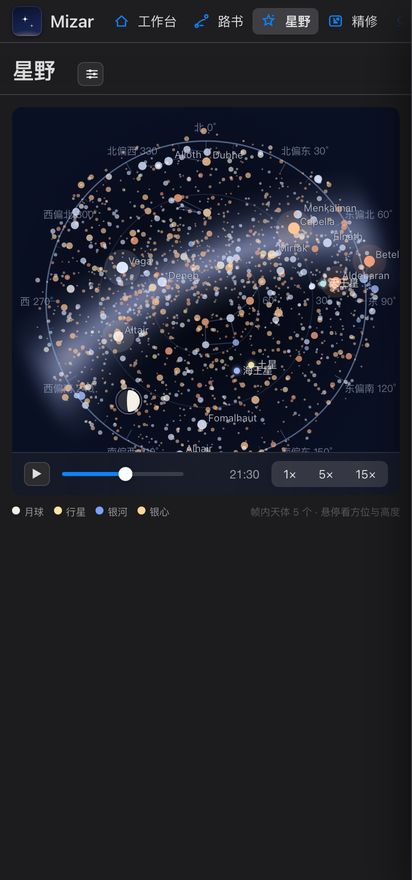
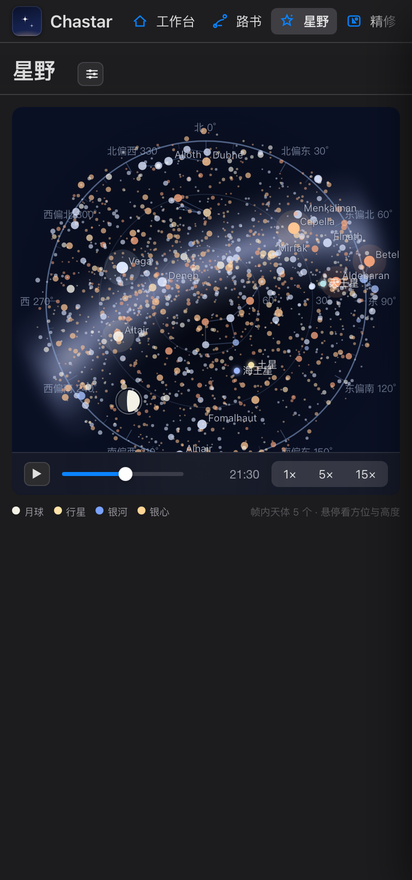
改名 Chastar：品牌面全量替换，图文件名跟着改
Chastar 是自造词，不指向任何恒星专名——文档里也这么写，避免被当成星名去查。
改的范围是所有用户可见文案与导出物：标签页标题、侧栏、说明弹窗、图片导出后缀
（-Chastar.jpg）、配方文件（.chastar.json）、路书文件名与 Markdown 头、
.cube 的注释行；图标源文件与产物一并改名（chastar.svg / chastar-512.png /
chastar-180.png），make-icon 的输入输出路径同步。

不动的：仓名与 Pages 地址（仍是 lumenfield，发布链接已写进参赛材料）、
localStorage 键 lumenfield.v1、模块内 LF 全局名、星表里的 Mizar——那是真星名数据。

Changed region(s): [[0.9903, 0.0, 1.0, 1.0], [0.1165, 0.0, 0.9612, 0.0614]]

diff --git a/src/ui/route-view.js b/src/ui/route-view.js
@@ -45,11 +45,11 @@
       actions.textContent = '';
       actions.appendChild(api.el('button', {
         class: 'control', text: '导出 Markdown',
-        onclick: function () { api.saveText('Mizar路书-' + site.id + '-' + api.state.dateISO + '.md', markdown(rows, site, kind, days), 'text/markdown;charset=utf-8'); api.toast('路书已导出为 .md'); }
+        onclick: function () { api.saveText('Chastar路书-' + site.id + '-' + api.state.dateISO + '.md', markdown(rows, site, kind, days), 'text/markdown;charset=utf-8'); api.toast('路书已导出为 .md'); }
       }));
       actions.appendChild(api.el('button', {
         class: 'control primary', text: '导出 JSON',
-        onclick: function () { api.saveText('Mizar路书-' + site.id + '.json', JSON.stringify({ site: site, from: api.state.dateISO, days: days, kind: kind, rows: rows }, null, 1), 'application/json'); api.toast('含全部计算量的 JSON 已导出'); }
+        onclick: function () { api.saveText('Chastar路书-' + site.id + '.json', JSON.stringify({ site: site, from: api.state.dateISO, days: days, kind: kind, rows: rows }, null, 1), 'application/json'); api.toast('含全部计算量的 JSON 已导出'); }
       }));
 
       /* 表格 */
@@ -130,7 +130,7 @@
 
       insp.appendChild(api.group('需要联网的量', [
         api.el('div', { class: 'tiny', text: '云量与降水：ECMWF/GFS 或晴天钟一类接口；光污染：VIIRS/世界图集栅格；极光 Kp：Space Weather Live。' }),
-        api.el('div', { class: 'tiny', text: 'Mizar 刻意不把这些塞进界面里当成"已算出"。要接的话，接进上面那张表的空列即可，评分函数留了权重位。' })
+        api.el('div', { class: 'tiny', text: 'Chastar 刻意不把这些塞进界面里当成"已算出"。要接的话，接进上面那张表的空列即可，评分函数留了权重位。' })
       ], { collapsed: true, note: '未接入' }));
     }
   });
@@ -273,7 +273,7 @@
   }
 
   function markdown(rows, site, kind, days) {
-    var head = '# Mizar 路书 · ' + site.name + '\n\n';
+    var head = '# Chastar 路书 · ' + site.name + '\n\n';
     head += '- 坐标：' + Math.abs(site.lat).toFixed(4) + '°' + (site.lat >= 0 ? 'N' : 'S') + ' ' +
       Math.abs(site.lon).toFixed(4) + '°' + (site.lon >= 0 ? 'E' : 'W') +
       '，海拔 ' + (site.height || '—') + ' m\n';
@@ -288,7 +288,7 @@
         return k === 'score' ? (v * 100).toFixed(0) : (v === 0 || v === undefined || v === null ? '—' : v);
       }).join(' | ') + ' |\n';
     });
-    head += '\n> 由 Mizar（光野）本地推算，公式与核对记录见仓库 docs/。\n';
+    head += '\n> 由 Chastar（光野）本地推算，公式与核对记录见仓库 docs/。\n';
     return head;
   }
 })(typeof window !== 'undefined' ? window : globalThis);

diff --git a/src/ui/retouch-view.js b/src/ui/retouch-view.js
@@ -326,7 +326,7 @@
         api.el('button', { class: 'control primary', style: { width: '100%' }, text: '导出当前张', onclick: function () { exportCurrent(api); } }),
         api.el('button', { class: 'control', style: { width: '100%' }, text: '逐张导出全部（' + st.images.length + '）', onclick: function () { exportAll(api); } }),
         api.el('div', { class: 'divider' }),
-        api.el('button', { class: 'control', style: { width: '100%' }, text: '导出配方 .json', onclick: function () { api.saveText(safeName(e.name) + '.mizar.json', JSON.stringify(R, null, 1), 'application/json'); } }),
+        api.el('button', { class: 'control', style: { width: '100%' }, text: '导出配方 .json', onclick: function () { api.saveText(safeName(e.name) + '.chastar.json', JSON.stringify(R, null, 1), 'application/json'); } }),
         api.el('button', { class: 'control', style: { width: '100%' }, text: '载入配方', onclick: function () { pickRecipe(api); } }),
         api.el('button', { class: 'control', style: { width: '100%' }, text: '烘 .cube（33³，色彩链）', onclick: function () { exportCube(api, 33); } }),
         api.el('button', { class: 'control', style: { width: '100%' }, text: '烘 .cube（17³，轻一点）', onclick: function () { exportCube(api, 17); } }),
@@ -347,7 +347,7 @@
         if (ev.key === '~' || (ev.key === '`' && !ev.repeat)) { view.peek = true; safePaint(api, true); }
         if ((ev.metaKey || ev.ctrlKey) && ev.key.toLowerCase() === 's') {
           ev.preventDefault();
-          api.saveText(safeName(current().name) + '.mizar.json', JSON.stringify(current().recipe, null, 1), 'application/json');
+          api.saveText(safeName(current().name) + '.chastar.json', JSON.stringify(current().recipe, null, 1), 'application/json');
           api.toast('配方已存成 .json');
         }
       };
@@ -653,7 +653,7 @@
           if (done) done();
           return;
         }
-        api.downloadBlob(safeName(e.name) + '-Mizar.' + (fmt === 'image/png' ? 'png' : 'jpg'), blob);
+        api.downloadBlob(safeName(e.name) + '-Chastar.' + (fmt === 'image/png' ? 'png' : 'jpg'), blob);
         api.toast('已导出 ' + out.width + '×' + out.height + '（' + (blob.size / 1048576).toFixed(2) + ' MB）');
         if (done) done();
       }, fmt, ((R.output && R.output.quality) || 92) / 100);

diff --git a/index.html b/index.html
@@ -4,8 +4,8 @@
 <meta charset="utf-8">
 <meta name="viewport" content="width=device-width, initial-scale=1, viewport-fit=cover">
 <meta name="color-scheme" content="light dark">
-<title>Mizar 光野 · 风光与旅拍工作台</title>
-<meta name="description" content="Mizar（光野）把旅拍与风光的前期路书、星野推演和后期精修放在同一个本地工作台里：不上传照片、不需要账号、不联网也能算。">
+<title>Chastar 光野 · 风光与旅拍工作台</title>
+<meta name="description" content="Chastar（光野）把旅拍与风光的前期路书、星野推演和后期精修放在同一个本地工作台里：不上传照片、不需要账号、不联网也能算。">
 <link rel="stylesheet" href="assets/css/tokens.css">
 <link rel="icon" type="image/svg+xml" href="assets/icons/favicon.svg">
 <link rel="apple-touch-icon" href="assets/icons/apple-touch-icon.png">
@@ -20,7 +20,7 @@
     <div class="sidebar-brand">
       <span class="brand-mark" aria-hidden="true"><span class="brand-glyph"></span></span>
       <div>
-        <div class="brand-name">Mizar</div>
+        <div class="brand-name">Chastar</div>
         <div class="brand-sub">光野</div>
       </div>
     </div>
@@ -72,9 +72,9 @@
 
 <dialog id="help-dialog">
   <div class="dialog-body">
-    <h2>Mizar 是什么</h2>
+    <h2>Chastar 是什么</h2>
     <p>给风光与旅拍摄影师的一体化工作台：出门前用<strong>路书</strong>定机位与时刻，夜里用<strong>星野</strong>推演银河与星体位置，回来在<strong>精修</strong>里做人像与风光的后期。所有计算都在你这台机器上完成。</p>
-    <p class="hint">名字取北斗柄第三星 Mizar（开阳）——它与暗伴星 Alcor 这对双星，自古被当作裸眼视力题：看得见那颗小的，才算眼神好。</p>
+    <p class="hint">Chastar 是自造词，不指向任何恒星专名。图标上那颗亮星与旁边要眯眼才看见的暗伴星，就是这个产品的态度：看得见的细节才算数。</p>
     <h3>三条底线</h3>
     <ul>
       <li>照片不出本机：管线全部在前端像素上跑，没有上传、没有账号、没有按张计费。</li>

diff --git a/src/core/imaging.js b/src/core/imaging.js
@@ -1027,7 +1027,7 @@
     var wb = wbLUTs(p.temp, p.tint, p.wbGain);
     var lines = [];
     lines.push('LUT_3D_SIZE ' + n);
-    lines.push('# Mizar 配方烘出的 3D LUT；只包含 ' + LUT_STAGES + ' 这些与位置无关的算子');
+    lines.push('# Chastar 配方烘出的 3D LUT；只包含 ' + LUT_STAGES + ' 这些与位置无关的算子');
     lines.push('# 清晰度/去雾/磨皮/局部控制点是逐像素依赖的，不在这张表里');
     var hsl = [0, 0, 0], o = [0, 0, 0];
     var lut = new Uint8Array(256);

diff --git a/docs/DESIGN.md b/docs/DESIGN.md
@@ -1,6 +1,6 @@
 ---
 version: 1
-name: Mizar 光野
+name: Chastar 光野
 platform: web (桌面浏览器优先，兼容 iOS Safari)
 language: zh-CN
 fonts:
@@ -71,13 +71,13 @@ components: [sidebar-nav, toolbar, segmented, slider-row, switch, card, stat, ch
 
 ## 品牌标
 
-主标 `assets/icons/mizar.svg`：深夜蓝渐变底 + 四角闪光主星 + 暗伴星 + 一条被末光照亮的地平线弧。四角闪光用三次曲线，两个控制点都收在中心，所以臂比二次曲线的闪光更瘦（腰在 3/8 半径处）。圆角 116/512 ≈ 22.6%，是 Apple 连续曲率圆角的近似比例，标为经验值。
+主标 `assets/icons/chastar.svg`：深夜蓝渐变底 + 四角闪光主星 + 暗伴星 + 一条被末光照亮的地平线弧。四角闪光用三次曲线，两个控制点都收在中心，所以臂比二次曲线的闪光更瘦（腰在 3/8 半径处）。圆角 116/512 ≈ 22.6%，是 Apple 连续曲率圆角的近似比例，标为经验值。Chastar 是自造词，别给它编星名来源。
 
 三条不成文的规矩：
 
 - 几何只有一个真源。侧栏小标不内联 SVG，用 CSS `mask` 引 `mark.svg`，颜色仍跟 `currentColor` 走，明暗两套自动成立。
 - 小尺寸要单独一版。`favicon.svg` 只留主星且居中，不带伴星与地平线——180px 以上才看得清的那两样，压到 32px 会变成一坨暖糊。
-- PNG 不手改。`electron tools/make-icon.mjs` 从 SVG 出 `mizar-512.png`、`mizar-180.png` 与 `apple-touch-icon.png`；后者刻意做成满幅不圆角，圆角交给 iOS 自己裁，预先圆角反而会在四角露出一层底色。
+- PNG 不手改。`electron tools/make-icon.mjs` 从 SVG 出 `chastar-512.png`、`chastar-180.png` 与 `apple-touch-icon.png`；后者刻意做成满幅不圆角，圆角交给 iOS 自己裁，预先圆角反而会在四角露出一层底色。
 
 ## 星空界面例外
 

diff --git a/docs/数据来源与许可.md b/docs/数据来源与许可.md
@@ -50,6 +50,6 @@
 | --- | --- |
 | 字体栈 | 系统字体（`-apple-system` → SF Pro / PingFang SC），不分发任何字体文件。Apple 官方字体授权不允许随应用再分发，所以界面只写 font-family |
 | 数值规范 | Apple Human Interface Guidelines 的 Typography / Color / Materials / Dark Mode / Layout / Motion 六页 |
-| 图标 | 界面图标全部为本仓库手写的内联 SVG 线条图标，不使用 SF Symbols 字体或素材（SF Symbols 许可不允许这样用）。品牌标（`assets/icons/`）同样是手写几何：主星四角闪光 + 伴星 + 地平线弧，几何只在 `mark.svg` 存一份，侧栏用 CSS mask 引它；PNG 由 `electron tools/make-icon.mjs` 从 `mizar.svg` 栅格化，不引入任何图标库或位图素材 |
-| 名称 | Mizar 与 Alcor 是恒星的传统专名（拜耳命名 ζ UMa / 80 UMa），专名本身不构成可商标的素材；本项目的标与字体排布均为原创 |
+| 图标 | 界面图标全部为本仓库手写的内联 SVG 线条图标，不使用 SF Symbols 字体或素材（SF Symbols 许可不允许这样用）。品牌标（`assets/icons/`）同样是手写几何：主星四角闪光 + 伴星 + 地平线弧，几何只在 `mark.svg` 存一份，侧栏用 CSS mask 引它；PNG 由 `electron tools/make-icon.mjs` 从 `chastar.svg` 栅格化，不引入任何图标库或位图素材 |
+| 名称 | **Chastar 是自造词**，不指向任何恒星专名，也没有借用现成商标素材；中文名"光野"同为自取。图标几何与字体排布均为本仓原创 |
 | 星群连线 | `src/data/asterisms.js` 手写，端点用拜耳键指认，生成时强制回查星表，查不到直接报错退出 |

diff --git a/docs/发布检查.md b/docs/发布检查.md
@@ -88,7 +88,7 @@
 | 2026-10-19 | 界面回归挂进 `check.sh` 成为发布门的一道；截图与文档同步 |
 | 2026-10-19 | 重打分发包并替换 Release 资产；把 zip 解开后用 `file://` 再跑一遍回归——验的是发出去那个实体，不是仓库工作区 |
 | 2026-10-19 | Pages 复查：入口、新截图、新脚本均 200，线上脚本已含本轮改动（按新增标识符 grep 命中确认，不看提交时间猜） |
-| 2026-10-19 | 改名 Mizar 并重出品牌标；仓名与 Pages 地址不动（发布链接已写进参赛材料） |
+| 2026-10-19 | 改名（初定 Mizar，随后改为 **Chastar**）并重出品牌标；仓名与 Pages 地址不动（发布链接已写进参赛材料） |
 | 2026-10-19 | **两轮复检**：第一轮四条并行（代码缺陷、文档声明一致性、公开面与历史、界面视觉），第二轮换角度（复查修复本身、文案、键盘可用性、状态机）。两轮合计抓出 35 个缺陷（含 6 个高危）与 8 处文档口径，全部修完并各补一条断言或一道门禁；`check.sh` 新增"门禁自测"，防止判据自己失效；界面回归新增"窄屏抽屉真的能打开"的断言 |
 | 2026-10-19 | 第三方许可收口：星表封装的 MIT 正文移入 `THIRD_PARTY_NOTICES/` 随仓分发，许可文档拆成"封装 MIT / 星表本体引用"两层，补拍摄地预设一节，`check.sh` 加一条存在性断言 |
 | 2026-10-19 | 打包改用 Python zipfile 并把"非 ASCII 名称必须置 UTF-8 标志位"做成硬校验；tag `v1.0.0` 前移到与分发包同一提交 |

diff --git a/AGENTS.md b/AGENTS.md
@@ -1,8 +1,8 @@
-# Mizar 光野
+# Chastar 光野
 
 风光与旅拍的本地工作台（纯前端，无构建、无依赖、无网络）。本文件是冷启动入口：接手这个项目的任何新任务，先读它。
 
-品牌口径：**对外名字是 Mizar，中文叫光野**；仓名与 Pages 地址仍是 `lumenfield`（发布链接已写进参赛材料，不改名）。用户可见的文案一律用 Mizar；代码注释、`localStorage` 键 `lumenfield.v1`、模块内 `LF` 全局名不动。图标几何只有一个真源 `assets/icons/mark.svg`（侧栏用 CSS mask 引它），改形状就改它，然后 `electron tools/make-icon.mjs` 重出 PNG。
+品牌口径：**对外名字是 Chastar，中文叫光野**；仓名与 Pages 地址仍是 `lumenfield`（发布链接已写进参赛材料，不改名）。Chastar 是自造词，不指向任何恒星专名——文档里别给它编星名来源。用户可见的文案一律用 Chastar；代码注释、`localStorage` 键 `lumenfield.v1`、模块内 `LF` 全局名不动。图标几何只有一个真源 `assets/icons/mark.svg`（侧栏用 CSS mask 引它），改形状就改它，然后 `electron tools/make-icon.mjs` 重出 PNG。
 
 ## 当前状态（2026-10-19）
 

diff --git a/README.md b/README.md
@@ -1,8 +1,8 @@
-# <img src="assets/icons/mizar-180.png" alt="Mizar 图标" width="34" height="34" valign="bottom"> Mizar 光野
+# <img src="assets/icons/chastar-180.png" alt="Chastar 图标" width="34" height="34" valign="bottom"> Chastar 光野
 
 风光与旅拍的一体化本地工作台：出门前排路书，夜里推星野，回来做精修。照片不出这台机器。
 
-**为什么叫 Mizar**：Mizar（开阳，北斗柄第三星 ζ UMa）与暗伴星 Alcor 这对双星，自古被当作裸眼视力题——看得见那颗小的才算眼神好。这个工具管的两件事正好是同一句话：把光和星的位置算准，把看得清不清这件事变成数字。图标取它的四角闪光形，配一条被末光照亮的地平线。
+**为什么叫 Chastar**：自造词，不指向任何恒星专名（这一点写明，免得被当成星名去查）。图标上是一颗亮星，和旁边那颗要眯眼才看得见的暗伴星——这个工具管的两件事正好是同一句话：把光和星的位置算准，把"看得清不清"变成数字。图标取四角闪光形，配一条被末光照亮的地平线。
 
 ![工作台](docs/screens/01-home.png)
 

diff --git a/docs/升级路线.md b/docs/升级路线.md
@@ -20,7 +20,7 @@
 | --- | --- | --- |
 | C-01 | 星野时间轴导出成对齐序列（供后期星轨叠加） | 值得。纯前端可算，是"时间空间路书"这条线的自然出口 |
 | C-02 | 银河拱桥接片规划（给出每片朝向与重叠率） | 值得，但要先把 `skymap` 的视场计算抽成可复用函数 |
-| C-03 | 精修预设的列表化管理（配方已能存 `.mizar.json`、也能读回来，缺的是"我的预设"这一层） | 中等。配方校验已经严了，剩下的就是把散落的导入导出收进一个面板 |
+| C-03 | 精修预设的列表化管理（配方已能存 `.chastar.json`、也能读回来，缺的是"我的预设"这一层） | 中等。配方校验已经严了，剩下的就是把散落的导入导出收进一个面板 |
 | C-04 | 工具箱加"景深合成张数与超焦距"合一计算 | 便宜，但收益小，等人要 |
 | C-05 | 星野加一条**视宁度**自填滑杆（角秒），让"这台机器配这个焦段够不够"能算 | 值得。它是目前唯一"文档提过、界面没有"的量；补上之前，文档里一律不许再写它 |
 
